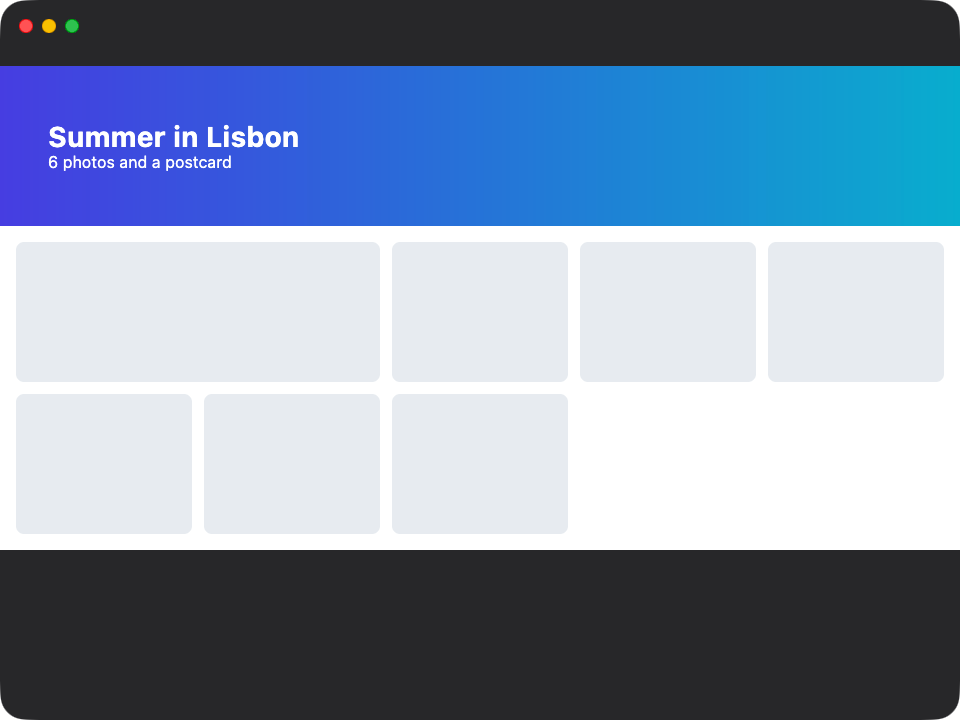
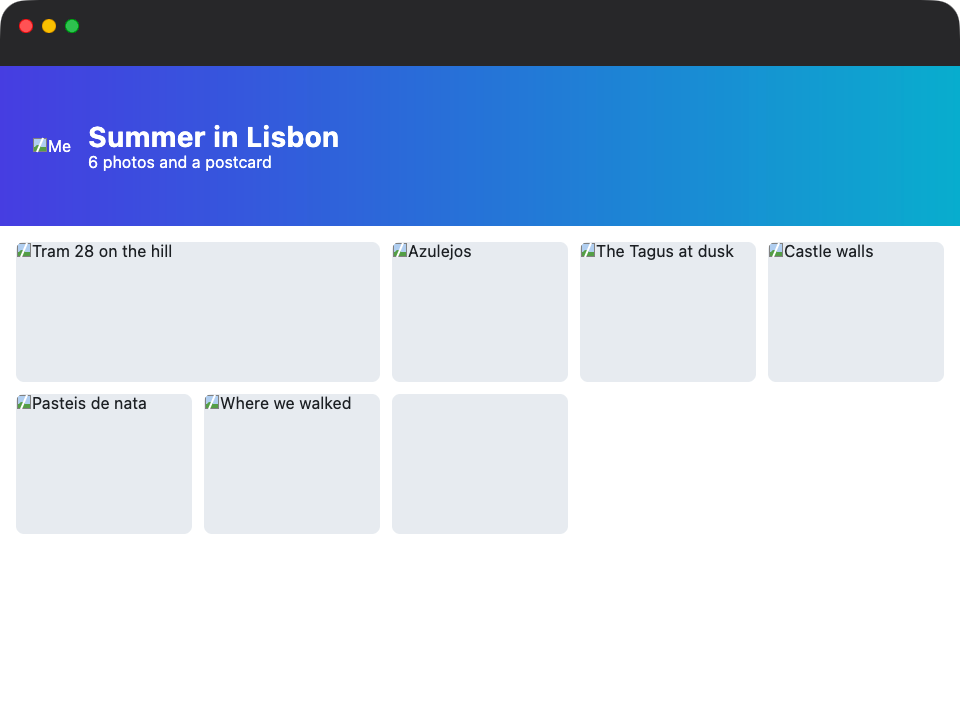
Docs: Record the samples on macOS after the HTML fixes (FR-34)
macos/ now shows each sample with the integrated fixes (canvas
background, viewport, button centring, font role, bare fields, scroll
corners, :disabled, checkboxes, keyframe origin, table width, image alt,
list markers); macos-before/ keeps the windows from #181.

Refs #179.

diff --git a/experiments/html-samples/README.md b/experiments/html-samples/README.md
@@ -3,7 +3,7 @@
 What each HTML sample in `samples/` looks like in a dioxus-compose window on macOS, and what
 the same HTML and CSS look like in Chromium, which is the reference for an HTML page.
 
-- `macos/<sample>.png`: the sample's window (`cargo run -p sample-html-<sample>`), debug
+- `macos/<sample>.png`: the sample's window after the 2026-11-13 HTML fixes (integration of #194-#212), and `macos-before/<sample>.png` the same window before them (#181). Both are (`cargo run -p sample-html-<sample>`), debug
   build, Apple Silicon, scale 1, compose-rust v0.0.6. The top 66 pixels are the window's
   title band, so the page starts at y = 66.
 - `chromium/<sample>.html`: the sample's first render serialised as HTML, with its
